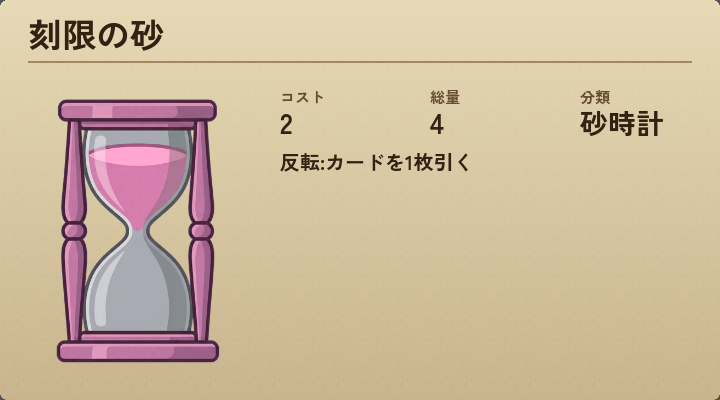
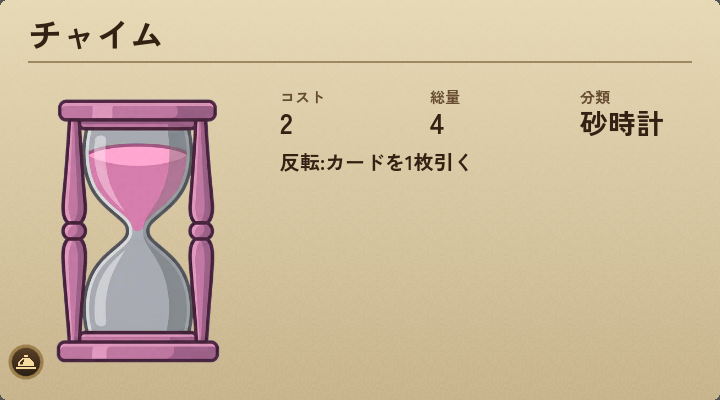
ビルド2026.09.11を書き出し、更新のお知らせを投稿
あわせて、更新お知らせに目玉コンテンツの画像紹介(カード実物のスクリーンショット)を
必ず添える運用へ変更。tools/discord/build_spotlight.py を新設し、
build-and-announce Skillの手順へ組み込んだ。

Changed region(s): [[0.0306, 0.03, 0.2444, 0.12], [0.0, 0.84, 0.0611, 0.96]]

diff --git a/tools/discord/build_spotlight.py b/tools/discord/build_spotlight.py
@@ -1,0 +1,138 @@
+#!/usr/bin/env python3
+"""更新のお知らせに添える「目玉コンテンツ紹介」画像を作る。
+
+そのビルドで最も伝えたい追加コンテンツ(新カードセット・新ステージ等)を、
+実際のカード画像(functions/data/card_art/{id}.png)と一緒に見せるための画像。
+バナー(update_banner.png)が「何のバージョンか」を示すのに対し、
+こちらは「具体的に何が増えたか」を見せる役目を持つ。両方を1回のお知らせに添える。
+
+カード紹介の例:
+    python tools/discord/build_spotlight.py \
+        --title "カードセット「五砂の刻」" \
+        --subtitle "総量5をねらうコンボ系5枚" \
+        --cards middle phase key cycle crest \
+        --out tools/discord/out/spotlight.png
+
+カードが無い(ステージ追加など)場合は --cards を省略し、タイトルだけの
+バナー的な画像として使う(ただし可能な限りカード画像を伴わせること。
+文字だけの告知は目に留まりにくい)。
+
+色は scripts/ui/styles/ui_palette.gd と同じ値を使い、build_update_banner.py と
+地続きの見た目にする。カード画像は tools/export_discord_card_art.gd
+(非ヘッドレス実行が必要)が焼くもので、無ければ先にそちらを実行すること。
+"""
+
+import argparse
+from pathlib import Path
+
+from PIL import Image, ImageDraw, ImageFont
+
+FONT = Path("assets/fonts/ZenKakuGothicNew-Bold.ttf")
+CARD_ART_DIR = Path("functions/data/card_art")
+DEFAULT_OUT = Path("tools/discord/out/spotlight.png")
+
+# ui_palette.gd と同じ値(build_update_banner.py と揃える)
+SLATE_TOP = (26, 28, 36)
+SLATE_BOTTOM = (61, 66, 79)
+BRASS_HIGHLIGHT = (209, 179, 115)
+BRASS_DARK = (84, 56, 41)
+TEXT_OFFWHITE = (245, 240, 227)
+GLOW_AMBER = (217, 158, 56)
+
+CARD_SIZE = (300, 167)  # 720x400を5/12に縮小
+CARD_GAP = 18
+MARGIN = 36
+HEADER_HEIGHT = 120
+
+
+def background(size: tuple[int, int]) -> Image.Image:
+    image = Image.new("RGB", size)
+    draw = ImageDraw.Draw(image)
+    for y in range(size[1]):
+        t = y / max(size[1] - 1, 1)
+        draw.line(
+            [(0, y), (size[0], y)],
+            fill=tuple(int(a + (b - a) * t) for a, b in zip(SLATE_TOP, SLATE_BOTTOM)),
+        )
+    return image.convert("RGBA")
+
+
+def frame(image: Image.Image, width: int = 6) -> None:
+    draw = ImageDraw.Draw(image)
+    w, h = image.size
+    draw.rectangle([0, 0, w - 1, h - 1], outline=BRASS_DARK, width=width)
+    draw.rectangle(
+        [width, width, w - 1 - width, h - 1 - width],
+        outline=BRASS_HIGHLIGHT,
+        width=2,
+    )
+
+
+def card_frame(image: Image.Image, box: tuple[int, int, int, int]) -> None:
+    draw = ImageDraw.Draw(image)
+    draw.rectangle(box, outline=GLOW_AMBER, width=3)
+
+
+def main() -> None:
+    parser = argparse.ArgumentParser(description="目玉コンテンツ紹介画像を作る")
+    parser.add_argument("--title", required=True, help="見出し(例: カードセット「五砂の刻」)")
+    parser.add_argument("--subtitle", default="", help="1行の添え書き")
+    parser.add_argument("--cards", nargs="*", default=[], help="紹介するカードのid(最大5枚推奨)")
+    parser.add_argument("--out", default=str(DEFAULT_OUT))
+    args = parser.parse_args()
+
+    cards = args.cards[:6]
+    art_paths = []
+    missing = []
+    for card_id in cards:
+        p = CARD_ART_DIR / f"{card_id}.png"
+        if p.exists():
+            art_paths.append((card_id, p))
+        else:
+            missing.append(card_id)
+    if missing:
+        print(f"警告: カード画像が見つからない ({', '.join(missing)})。"
+              f" 先に tools/export_discord_card_art.gd を実行すること")
+
+    cols = min(len(art_paths), 3) if art_paths else 1
+    rows = -(-len(art_paths) // cols) if art_paths else 0
+    grid_w = cols * CARD_SIZE[0] + (cols - 1) * CARD_GAP if art_paths else 0
+    grid_h = rows * CARD_SIZE[1] + (rows - 1) * CARD_GAP if art_paths else 0
+
+    width = max(grid_w + MARGIN * 2, 720)
+    height = HEADER_HEIGHT + (grid_h + MARGIN if art_paths else MARGIN // 2) + MARGIN
+
+    image = background((width, height))
+    draw = ImageDraw.Draw(image)
+
+    title_font = ImageFont.truetype(str(FONT), 44)
+    subtitle_font = ImageFont.truetype(str(FONT), 24)
+
+    top = 28
+    draw.text((MARGIN, top), args.title, font=title_font, fill=TEXT_OFFWHITE)
+    top += (draw.textbbox((MARGIN, top), args.title, font=title_font)[3] - top) + 8
+    if args.subtitle:
+        draw.text((MARGIN, top), args.subtitle, font=subtitle_font, fill=GLOW_AMBER)
+
+    # カードを中央寄せで並べる
+    grid_x = (width - grid_w) // 2
+    grid_y = HEADER_HEIGHT
+    for i, (card_id, path) in enumerate(art_paths):
+        col = i % cols
+        row = i // cols
+        x = grid_x + col * (CARD_SIZE[0] + CARD_GAP)
+        y = grid_y + row * (CARD_SIZE[1] + CARD_GAP)
+        art = Image.open(path).convert("RGBA").resize(CARD_SIZE, Image.LANCZOS)
+        image.alpha_composite(art, (x, y))
+        card_frame(image, (x, y, x + CARD_SIZE[0] - 1, y + CARD_SIZE[1] - 1))
+
+    frame(image)
+
+    out_path = Path(args.out)
+    out_path.parent.mkdir(parents=True, exist_ok=True)
+    image.convert("RGB").save(out_path)
+    print(f"書き出し: {out_path}")
+
+
+if __name__ == "__main__":
+    main()

diff --git a/.claude/skills/build-and-announce/SKILL.md b/.claude/skills/build-and-announce/SKILL.md
@@ -74,13 +74,47 @@ python tools/discord/build_update_banner.py {バージョン} --subtitle "..."
   (Godotがインポートして、告知用の画像がゲームのpckへ入ってしまう)
 - 出力は `tools/discord/out/update_banner.png`。**生成したら必ず目で確かめる**
 
+### 4.5. 目玉コンテンツの紹介画像を作る
+
+**バナーはバージョン番号を示すだけで、何が増えたのかまでは伝えない。**
+そのビルドでいちばん伝えたい追加コンテンツ(新カードセット・新ステージ等)を、
+実際のカード画像つきで見せる1枚を必ずもう1枚添える。文字だけの告知は
+目に留まりにくいため、**画像を伴わない回を作らない**。
+
+対象がカード(セット)の追加であれば、まずDiscord用のカード画像を用意する
+(`functions/data/card_art/{id}.png` に無ければ、非ヘッドレスで1度焼く。
+GPU描画が要るため `--headless` は付けない)。
+
+```
+"C:\Users\omezi\Documents\Godot_v4.6.2-stable_win64_console.exe" --path . \
+    --script tools/export_discord_card_art.gd
+```
+
+そのうえで紹介画像を組み立てる。
+
+```
+python tools/discord/build_spotlight.py \
+    --title "カードセット「○○」" \
+    --subtitle "1行で狙いを添える" \
+    --cards id1 id2 id3 id4 id5 \
+    --out tools/discord/out/spotlight_{バージョン}.png
+```
+
+- **カードが無い回**(ステージ追加・UI刷新など)は `--cards` を省略できるが、
+  その場合でも**スクリーンショット等の画像を別途用意して添えること**を優先する。
+  何も画像を持たない回は、バナーだけでも出す(お知らせを出さないより良い)
+- 出力先は `tools/discord/out/`。**`assets/` の下へ出さない**(4章と同じ理由)
+- **生成したら必ず目で確かめる**(カードが重なっていないか・文字が切れていないか)
+
 ### 5. 投稿する
 
 ```
 python tools/discord/discord_post.py tools/discord/drafts/update-{バージョン}.md \
-    --attach tools/discord/out/update_banner.png --dry-run
+    --attach tools/discord/out/update_banner.png \
+    --attach tools/discord/out/spotlight_{バージョン}.png --dry-run
 python tools/discord/discord_post.py tools/discord/drafts/update-{バージョン}.md \
-    --attach tools/discord/out/update_banner.png
+    --attach tools/discord/out/update_banner.png \
+    --attach tools/discord/out/spotlight_{バージョン}.png
 ```
 
 既定の宛先が #お知らせ。**必ず `--dry-run` で1度確認してから投稿する。**

diff --git a/tools/discord/drafts/update-2026.09.11.md b/tools/discord/drafts/update-2026.09.11.md
@@ -1,0 +1,17 @@
+**あたらしいもの**
+- カードセット「五砂の刻(ごさのこく)」を追加したよ。砂時計の総量がちょうど5になったときに発動する、ちょっと変わった効果を持つ5枚だよ。ショップで買うと使えるようになるよ
+- 対人戦の先手・後手を、対局が決まった瞬間にランダムで決めるようにしたよ。前はズルができちゃう決め方だったんだ
+- ランダムマッチの待ち時間を、専用の画面でゆっくり見せるようにしたよ
+
+**なおしたもの**
+- リーサルパズルで、ステージを選んでも対局画面に進めないことがあった不具合をなおしたよ
+- パズルやソロモードで、盤面の駒がおかしくなることがあった不具合をなおしたよ
+- ルームマッチで、次の対局を始めたのに前の盤面が残ったまま戻れなくなることがあった不具合をなおしたよ
+- ルームマッチの「対局を開始」ボタンが画面の外にはみ出すことがあった不具合をなおしたよ
+- 図鑑の集めた数を、ちゃんと持っているカードだけで数えるようにしたよ
+
+**かわったもの**
+- ソロモードの理不尽だったステージを3つ調整して、勝ちやすくしたよ
+- ソロモード限定の砂時計2枚の名前を「チャイム」「ウォード」に変えたよ
+
+-# 遊ぶ → https://unityroom.com/games/sunadokei_arena
